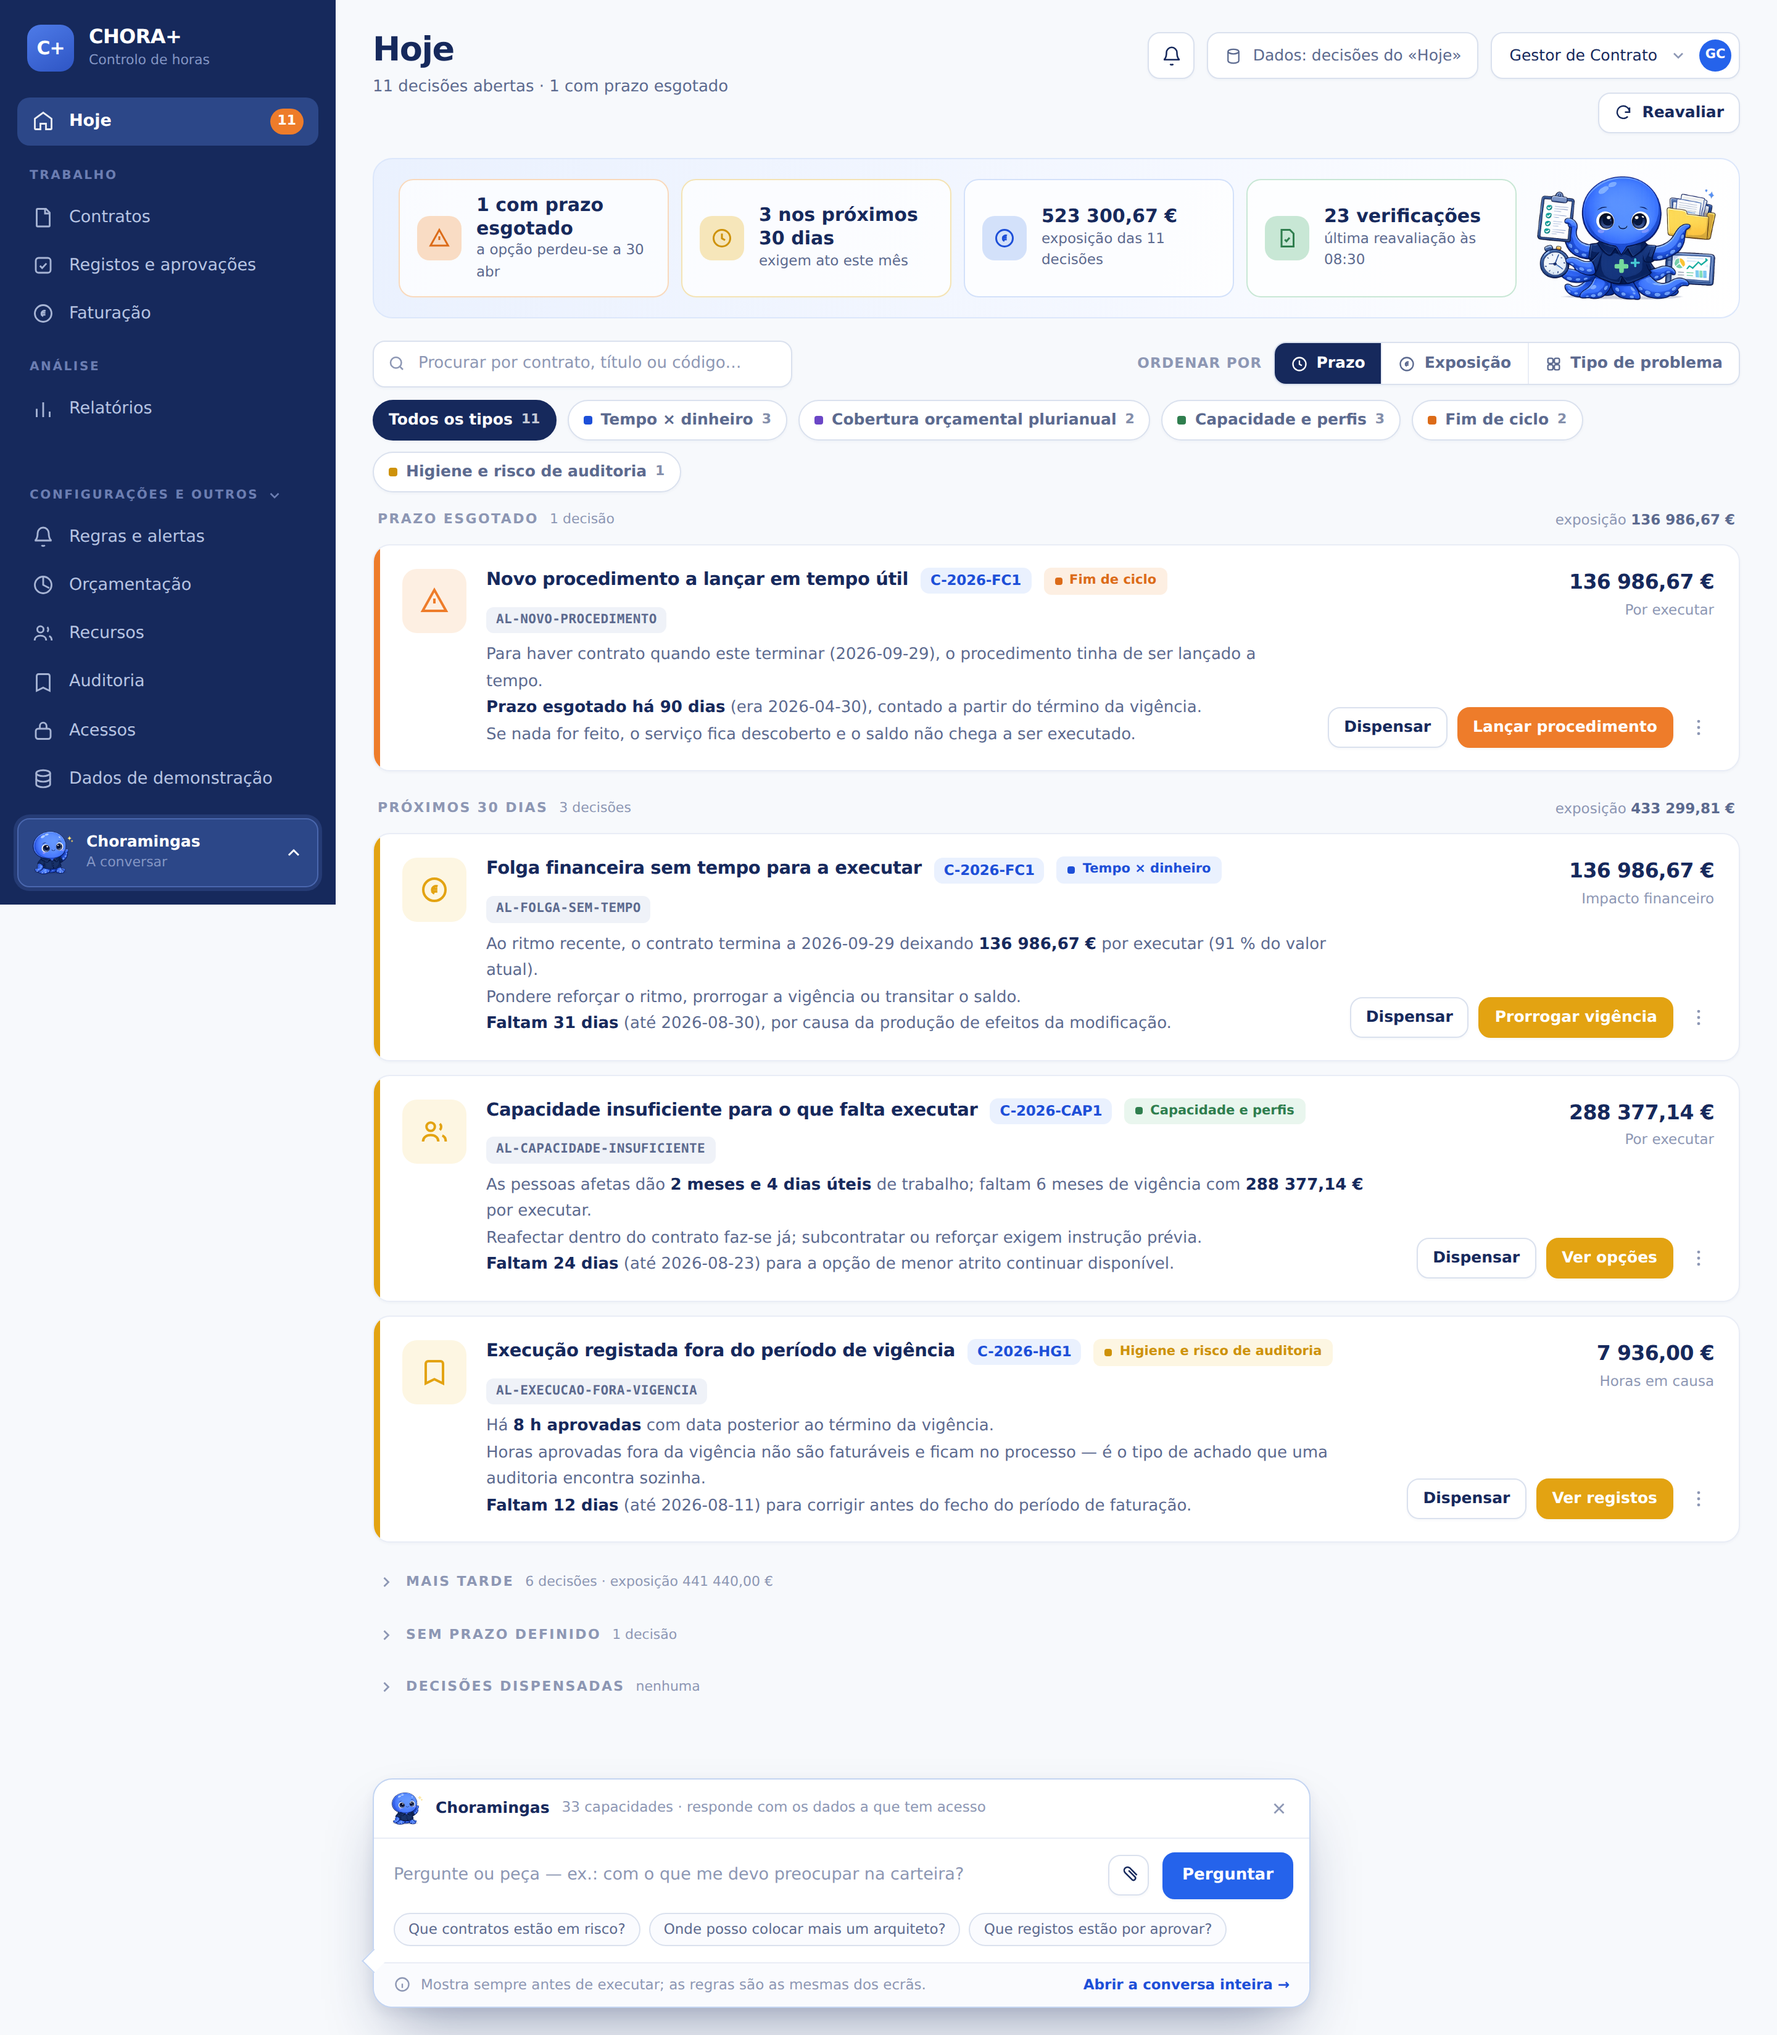
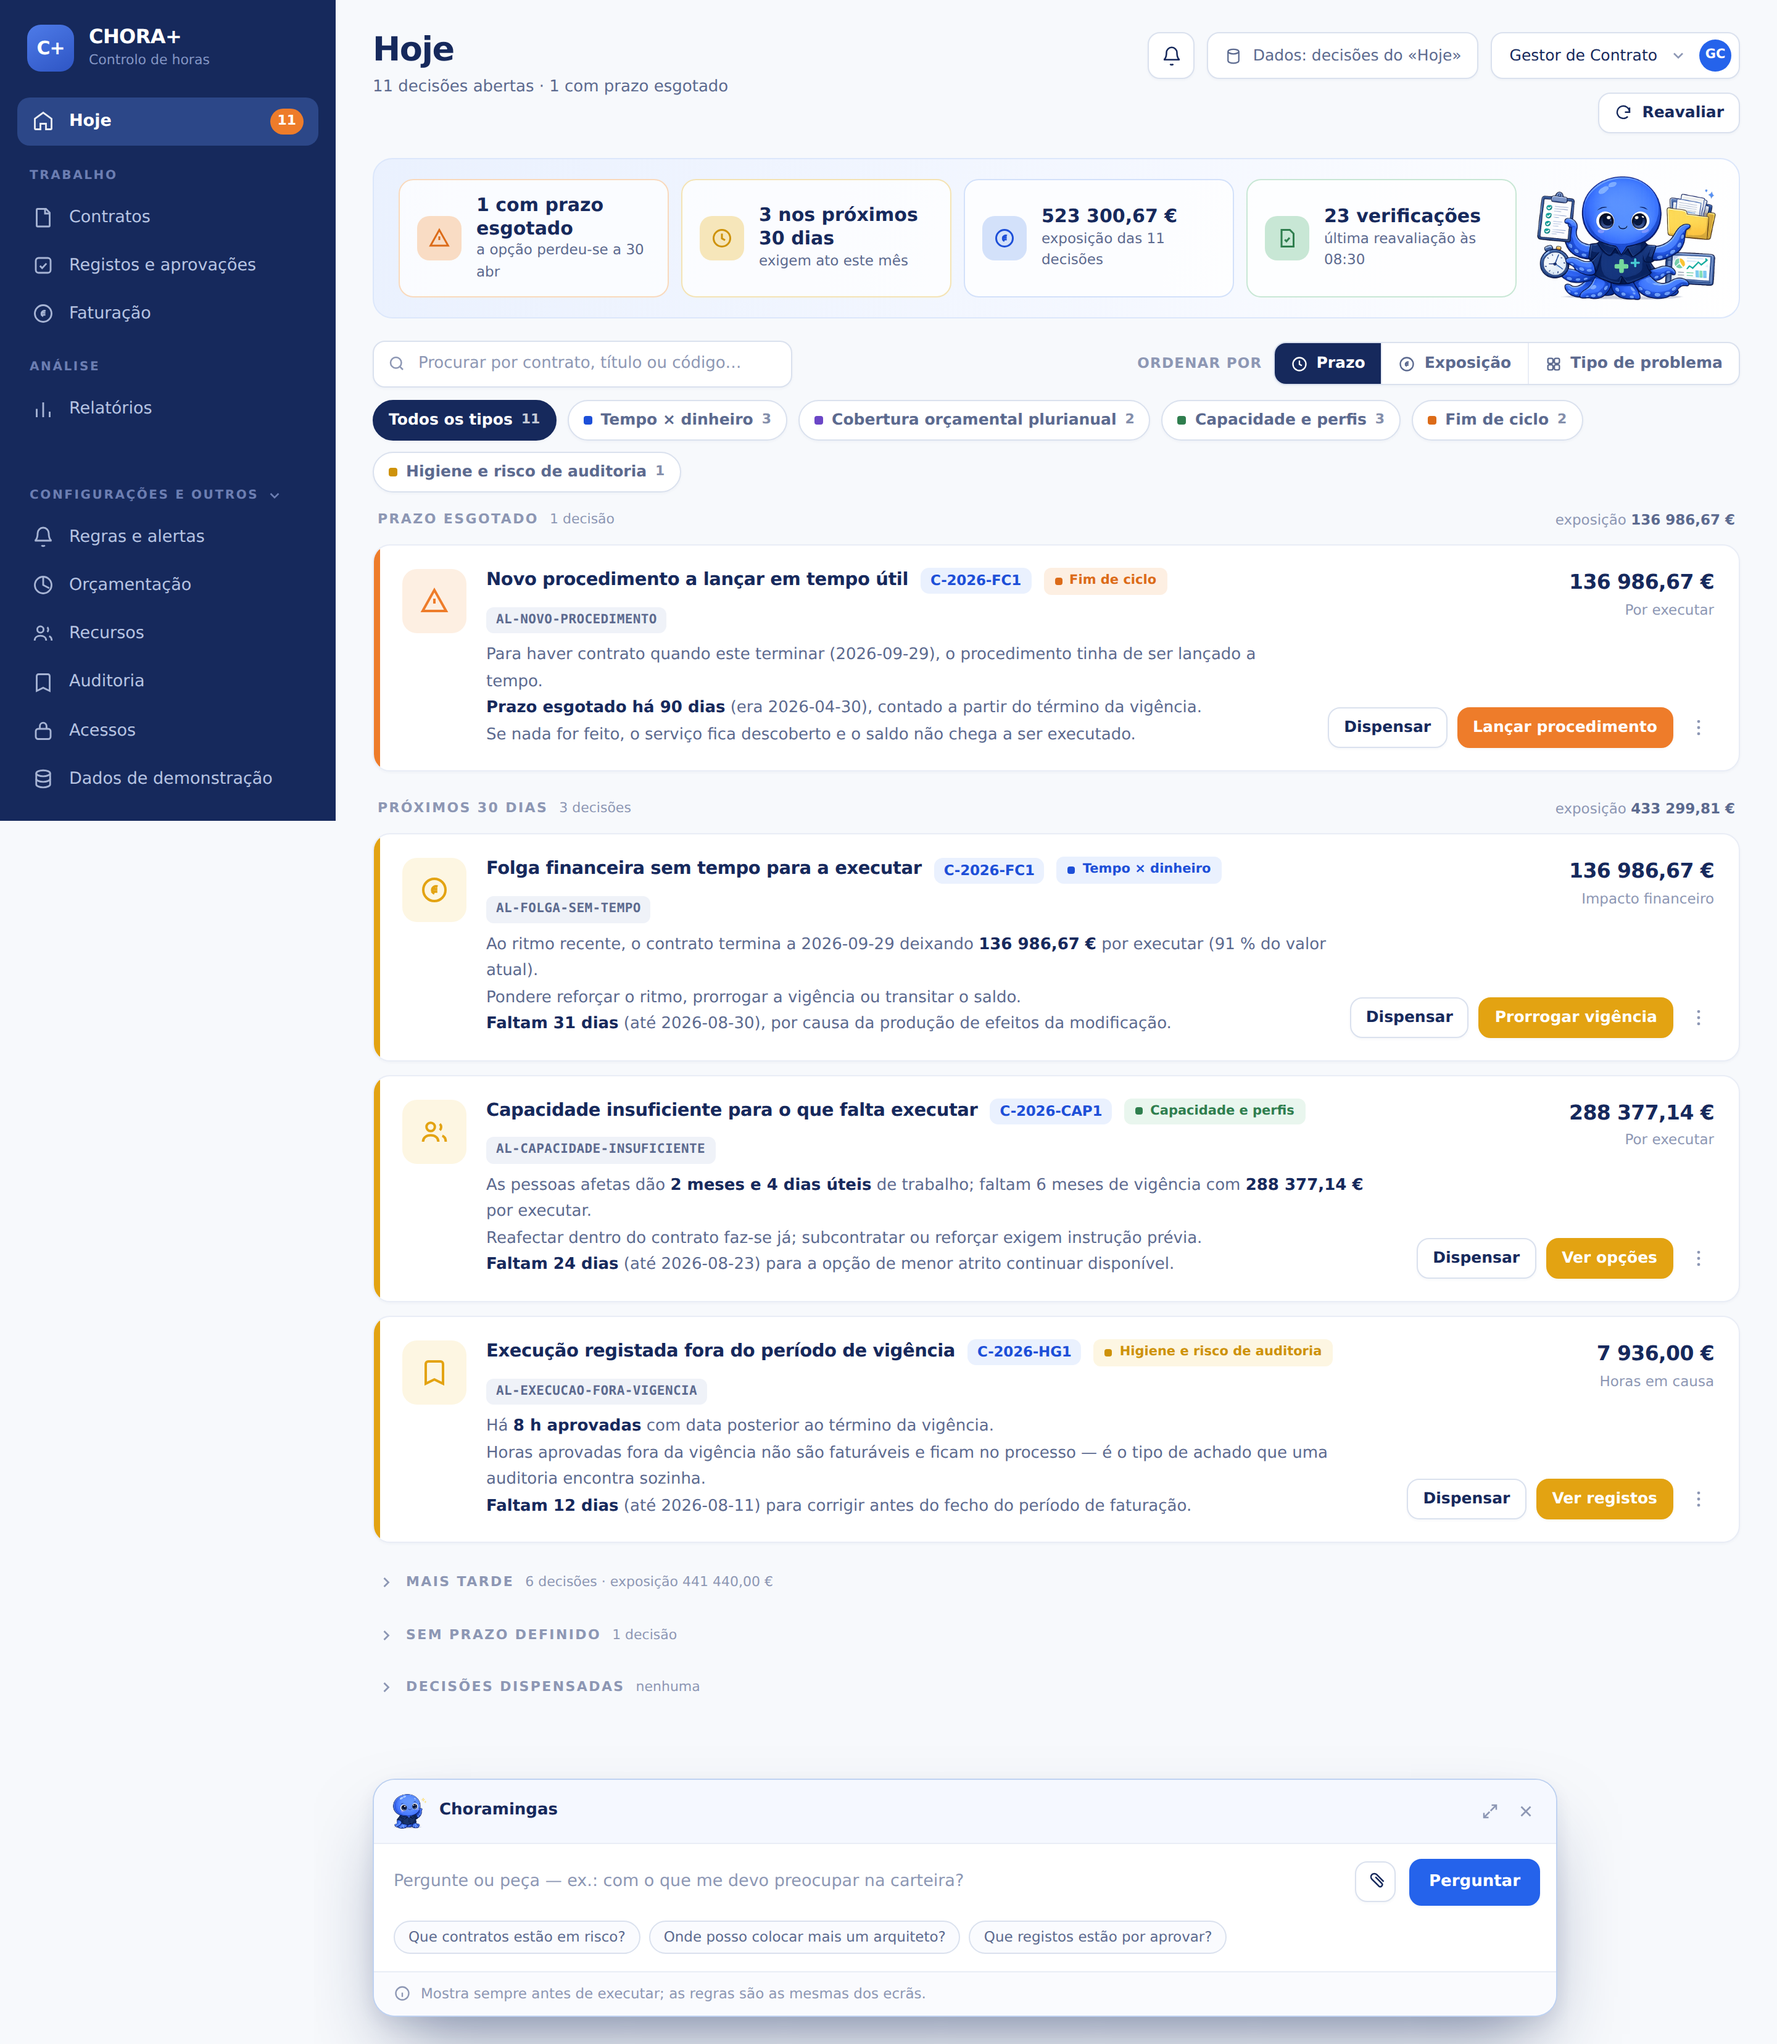
docs(redesenho): janela do Choramingas — lançador esconde-se, painel mais largo
- O lançador da lateral DESAPARECE enquanto a janela está aberta e volta
  quando ela fecha. Ele não abre a janela: torna-se a janela. Tê-los aos dois
  ao mesmo tempo era mostrar duas vezes a mesma coisa.
- A janela passa de 760 px para 960 px — ainda ~150 px aquém dos cartões e
  encostada à esquerda, agora com sombra mais funda e o topo tingido. É o
  conjunto (largura, alinhamento, sombra, tinta) que a separa da página.
- Cai o «33 capacidades · responde com os dados a que tem acesso» do topo.
- O topo ganha dois ícones: ecrã inteiro (leva à conversa completa, com a mesa
  de trabalho) e fechar. O link do rodapé desaparece, por ser o mesmo destino.
- Cai o bico que apontava ao lançador, que já não existe quando a janela abre.

Todos os ecrãs regerados com o padrão novo.

Claude-Session: https://claude.ai/code/session_01FoKBV8TZE28pdnn2HUS8qr

diff --git a/docs/redesenho/propostas/base.css b/docs/redesenho/propostas/base.css
@@ -77,32 +77,37 @@ svg{display:block}
 .lancador.on{background:var(--navy-3);border-color:#4A67AE;box-shadow:0 0 0 3px rgba(74,103,174,.3)}
 .lancador.on .seta{transform:rotate(-90deg);color:#fff}
 
-/* ── CHORAMINGAS: a barra aberta ────────────────────────────────────────────
-   Cresce a partir do lançador — encostada à esquerda, com um bico a apontar
-   para ele — e é DELIBERADAMENTE mais estreita do que os cartões, com sombra
-   mais funda. Com a mesma largura e a mesma sombra passava por cartão. */
+/* ── CHORAMINGAS: a janela aberta ───────────────────────────────────────────
+   O lançador não fica ao lado da janela: DESAPARECE. Ele não abre a janela —
+   ele TORNA-SE a janela, e volta quando ela fecha. Ter os dois ao mesmo tempo
+   é mostrar duas vezes a mesma coisa.
+
+   Largura de 960 px: mais folgada do que a primeira versão, mas ainda ~150 px
+   aquém dos cartões e encostada à esquerda, com sombra bem mais funda e um topo
+   tingido. É o conjunto — largura, alinhamento, sombra, tinta — que a separa da
+   página; nenhum dos quatro chegava sozinho.
+
+   Para conversar a sério há o ecrã inteiro, a um clique no canto. */
 .choro{position:sticky;bottom:0;z-index:4;padding:26px 30px 22px;
   background:linear-gradient(to bottom,rgba(247,249,252,0),var(--fundo) 44%)}
-.choro .painel{position:relative;width:min(760px,100%);background:var(--superficie);
-  border:1px solid #C4D5F2;border-radius:16px;
-  box-shadow:0 4px 10px rgba(22,41,92,.07), 0 26px 52px -16px rgba(22,41,92,.42)}
-.choro .painel::before{content:"";position:absolute;left:-7px;bottom:30px;width:13px;height:13px;
-  background:var(--superficie);border-left:1px solid #C4D5F2;border-bottom:1px solid #C4D5F2;
-  transform:rotate(45deg)}
-.choro .topo{display:flex;align-items:center;gap:10px;padding:10px 14px;border-bottom:1px solid var(--linha)}
-.choro .topo .fig{flex:0 0 26px}
-.choro .topo b{font-size:12.5px}
-.choro .topo .sub{font-size:11.5px;color:var(--texto-fraco)}
-.choro .topo .fechar{margin-left:auto;color:var(--texto-fraco);cursor:pointer;padding:3px}
-.choro .linha{display:flex;align-items:center;gap:11px;padding:11px 13px 11px 16px}
+.choro .painel{width:min(960px,100%);background:var(--superficie);
+  border:1px solid #BFD2F1;border-radius:18px;
+  box-shadow:0 6px 14px rgba(22,41,92,.08), 0 32px 64px -18px rgba(22,41,92,.5)}
+.choro .topo{display:flex;align-items:center;gap:10px;padding:11px 12px 11px 15px;
+  border-bottom:1px solid var(--linha);background:var(--azul-b2);border-radius:18px 18px 0 0}
+.choro .topo .fig{flex:0 0 28px}
+.choro .topo b{font-size:13px}
+.choro .topo .dir{margin-left:auto;display:flex;align-items:center;gap:4px}
+.choro .topo .ico-t{color:var(--texto-fraco);cursor:pointer;padding:5px;border-radius:7px;display:flex}
+.choro .topo .ico-t:hover{background:#E3ECFC;color:var(--texto)}
+.choro .linha{display:flex;align-items:center;gap:11px;padding:12px 13px 12px 16px}
 .choro input{flex:1;border:none;background:transparent;font:inherit;font-size:13.5px;color:var(--texto);outline:none}
 .choro input::placeholder{color:var(--texto-fraco)}
-.choro .sugs{display:flex;gap:7px;flex-wrap:wrap;padding:0 16px 13px}
+.choro .sugs{display:flex;gap:7px;flex-wrap:wrap;padding:0 16px 14px}
 .choro .sug{font-size:11.5px;color:var(--texto-suave);background:var(--superficie-2);
   border:1px solid var(--linha-forte);border-radius:20px;padding:4px 11px;cursor:pointer}
 .choro .nota{font-size:11.5px;color:var(--texto-fraco);padding:9px 16px;border-top:1px solid var(--linha);
-  background:var(--superficie-2);border-radius:0 0 16px 16px;display:flex;align-items:center;gap:8px}
-.choro .nota .dir{margin-left:auto;color:var(--azul-forte);font-weight:600;cursor:pointer;white-space:nowrap}
+  background:var(--superficie-2);border-radius:0 0 18px 18px;display:flex;align-items:center;gap:8px}
 
 /* ── PRINCIPAL ─────────────────────────────────────────────────────────── */
 .principal{flex:1;min-width:0;display:flex;flex-direction:column}

diff --git a/docs/redesenho/propostas/casca.js b/docs/redesenho/propostas/casca.js
@@ -64,13 +64,17 @@
       h += `<div class="nav${it.id === ativo ? ' on' : ''}">${ic(it.ic)}${it.rot}${cnt}</div>`;
     }
     if (emGaveta) h += '</div>';
+    h += '<div class="fim"></div>';
+    // Com a janela aberta o lançador não fica ao lado dela: some-se. Ele não
+    // abre a janela — torna-se a janela, e volta quando ela fecha.
     const aberto = document.querySelector('.app')?.dataset.choramingas === 'aberto';
-    h += `<div class="fim"></div>
-      <div class="lancador${aberto ? ' on' : ''}">
+    if (!aberto) {
+      h += `<div class="lancador">
         <div class="fig"><img class="mascote" src="ativos/choramingas-aceno.png" alt="Choramingas"></div>
-        <div><b>Choramingas</b><span>${aberto ? 'A conversar' : 'Perguntar ou pedir'}</span></div>
+        <div><b>Choramingas</b><span>Perguntar ou pedir</span></div>
         <svg class="seta" width="16" height="16" viewBox="0 0 24 24" fill="none" stroke="currentColor" stroke-width="2.2"><path d="m9 6 6 6-6 6"/></svg>
       </div>`;
+    }
     return h;
   }
 
@@ -89,9 +93,13 @@
         <div class="topo">
           <div class="fig"><img class="mascote" src="ativos/choramingas-aceno.png" alt="Choramingas"></div>
           <b>Choramingas</b>
-          <span class="sub">33 capacidades · responde com os dados a que tem acesso</span>
-          <span class="fechar" title="Fechar">
-            <svg width="15" height="15" viewBox="0 0 24 24" fill="none" stroke="currentColor" stroke-width="2.2"><path d="M6 6l12 12M18 6 6 18"/></svg>
+          <span class="dir">
+            <span class="ico-t" title="Abrir em ecrã inteiro">
+              <svg width="15" height="15" viewBox="0 0 24 24" fill="none" stroke="currentColor" stroke-width="2"><path d="M14 4h6v6M20 4l-7.4 7.4M10 20H4v-6M4 20l7.4-7.4"/></svg>
+            </span>
+            <span class="ico-t" title="Fechar">
+              <svg width="15" height="15" viewBox="0 0 24 24" fill="none" stroke="currentColor" stroke-width="2.2"><path d="M6 6l12 12M18 6 6 18"/></svg>
+            </span>
           </span>
         </div>
         <div class="linha">
@@ -105,7 +113,6 @@
         <div class="nota">
           <svg width="14" height="14" viewBox="0 0 24 24" fill="none" stroke="currentColor" stroke-width="2" style="flex:0 0 14px"><circle cx="12" cy="12" r="9"/><path d="M12 8h.01M11 12h1v4h1"/></svg>
           Mostra sempre antes de executar; as regras são as mesmas dos ecrãs.
-          <span class="dir">Abrir a conversa inteira →</span>
         </div>
       </div>`;
     return el;

diff --git a/docs/redesenho/propostas/LEIA-ME.md b/docs/redesenho/propostas/LEIA-ME.md
@@ -33,17 +33,20 @@ Para cada um há duas imagens: `nome.png` (o que se vê ao abrir, 1440×1000) e
 
 ## O Choramingas
 
-Vive **recolhido no fundo da lateral**, em todos os ecrãs. Clicar expande-o numa
-barra que cresce a partir do lançador — encostada à esquerda, com um bico a
-apontar-lhe e o lançador realçado enquanto está aberta.
+Vive **recolhido no fundo da lateral**, em todos os ecrãs. Antes existia só no
+«Hoje», e só como barra permanente: ocupava uma faixa fixa no único ecrã onde
+estava e faltava em todos os outros.
 
-Antes existia só no «Hoje», e só como barra permanente: ocupava uma faixa fixa
-no único ecrã onde estava e faltava em todos os outros. Recolhido, está sempre à
-mão e nunca a estorvar.
+Ao abrir, **o lançador desaparece**. Ele não abre a janela — torna-se a janela, e
+volta quando ela fecha. Ter os dois ao mesmo tempo seria mostrar duas vezes a
+mesma coisa.
 
-A barra é **deliberadamente mais estreita do que os cartões** (760 px) e tem
-sombra mais funda. Com a mesma largura e a mesma sombra passava por mais um
-cartão da página, que era o problema.
+A janela tem **960 px**, encostada à esquerda: ~150 px aquém dos cartões, com
+sombra bem mais funda e o topo tingido. É o conjunto — largura, alinhamento,
+sombra, tinta — que a separa da página; nenhum dos quatro chegava sozinho.
+
+No canto do topo há **ecrã inteiro** (leva a `assistente-v1.html`, onde vivem a
+conversa e a mesa de trabalho) e **fechar**.
 
 ## As três regras que atravessam todos os ecrãs
 
